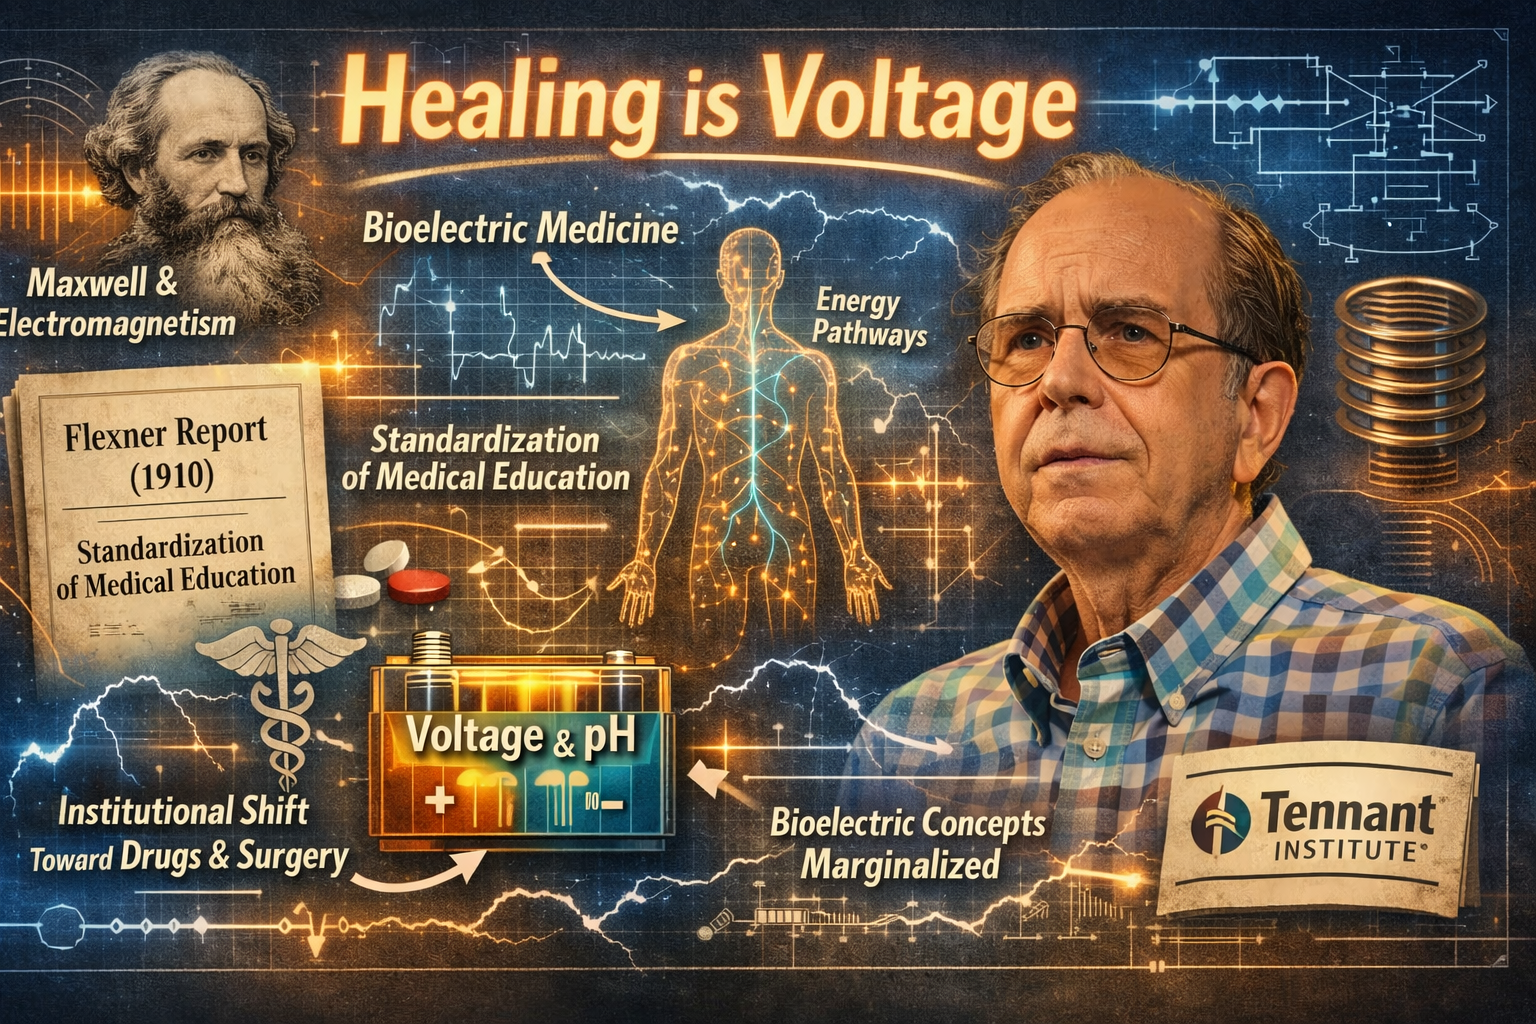
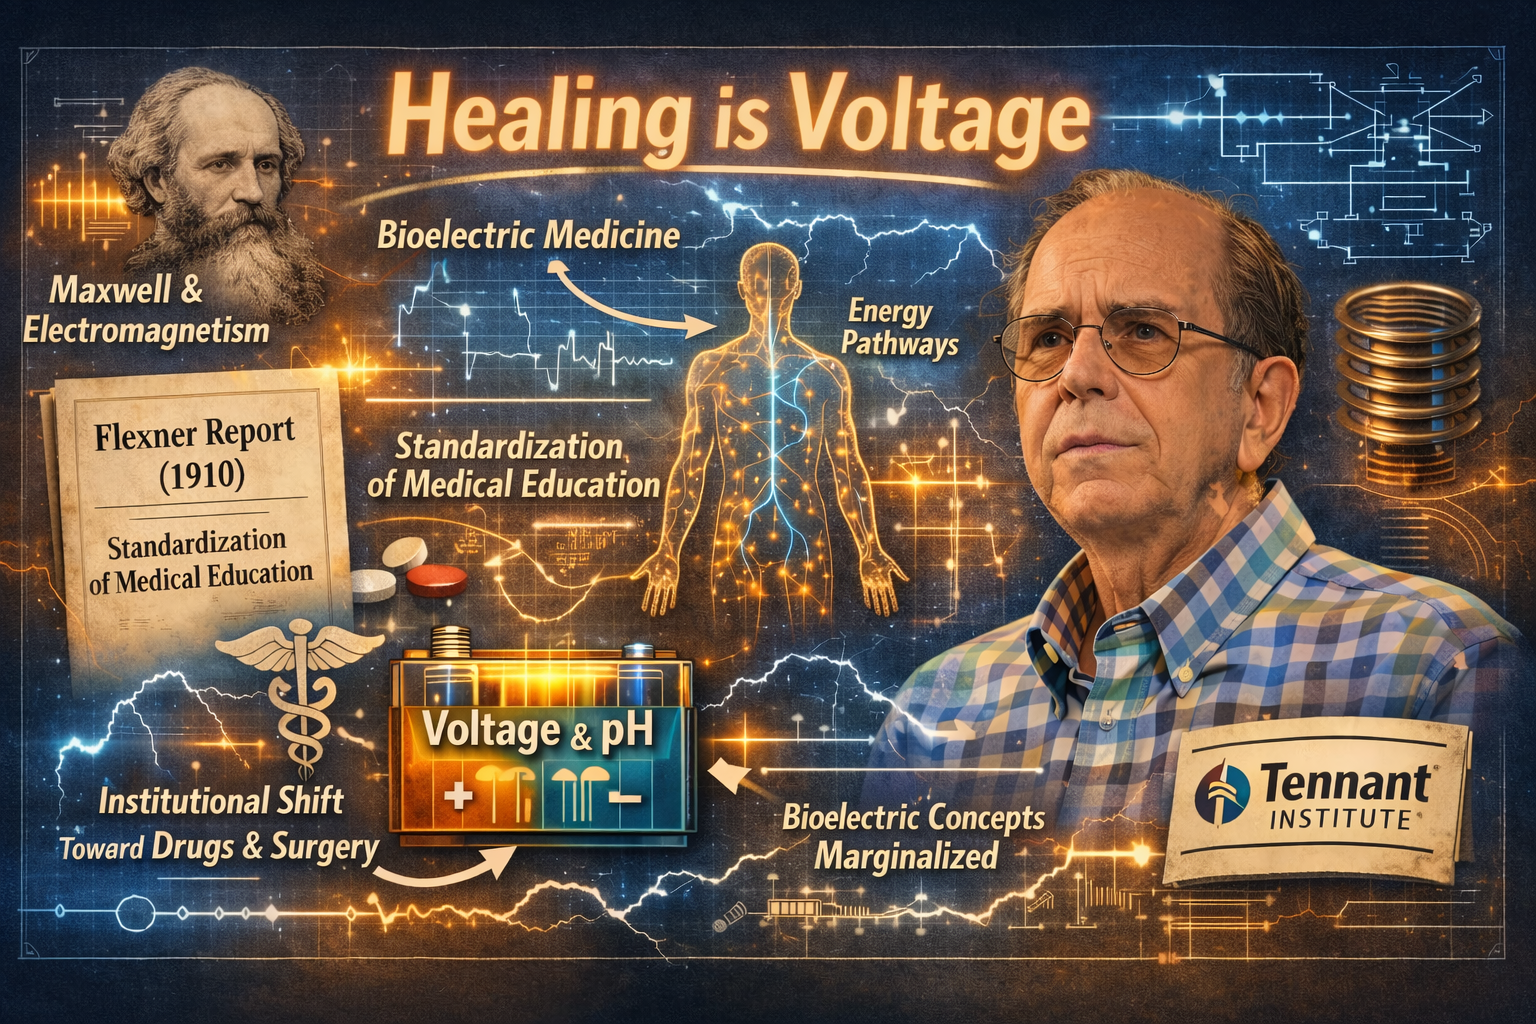
Add tennant-electricity-in-the-body.png to Flexner Report article

diff --git a/content/14.ce-20th-the-1917-revolution/14.09.00-1910-ce-the-flexner-report-and-bioelectric-suppression.md b/content/14.ce-20th-the-1917-revolution/14.09.00-1910-ce-the-flexner-report-and-bioelectric-suppression.md
@@ -24,6 +24,8 @@ The survivors became the modern medical school system: drug-and-surgery-based, p
 
 > Around 1910, Andrew Carnegie and John D. Rockefeller became major investors in the pharmaceutical industry. The Flexner Report was written and taken to Congress. Congress **forbade the use of any federal money for anyone who said there was energy in the body**. That closed the 13 homeopathic medical schools. Any physician using an electronic device to treat patients **got put in jail**. That set up pretty much of a chilling effect and that's how our country stopped looking at energy in the body.
 
+![Dr. Jerry Tennant — Electricity in the Body](/media/14.ce-20th-the-1917-revolution/tennant-electricity-in-the-body.png)
+
 Tennant further notes that when Nixon visited China in 1972 and observed acupuncture surgery, he directed the NIH to integrate acupuncture into American medicine. The NIH created what is now NCCIH (National Center for Complementary and Integrative Health) — but "the people who control medicine basically continued to ignore it." The standard-of-care system, controlled by medical boards and insurance companies, remains structurally hostile to bioelectric approaches.
 
 Tennant himself now operates the Tennant Institute as a **private expressive association** under Arizona homeopathic licensure — because Texas medical boards will not permit non-standard-of-care treatment. This is active institutional suppression in the 21st century. (**Tennant's own testimony.**)
